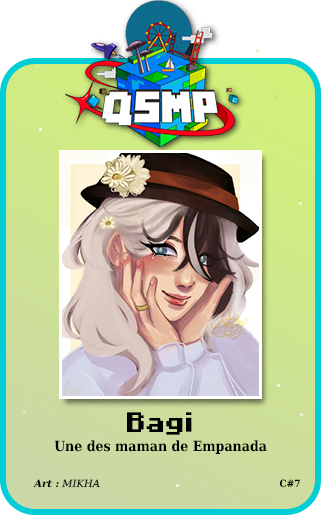
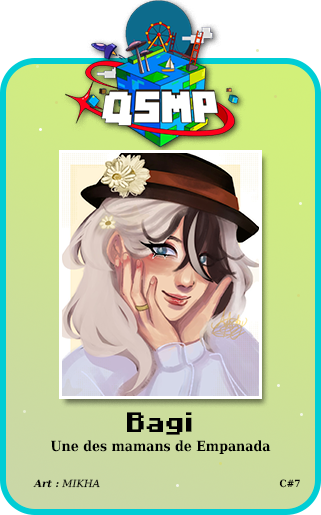
correction des fautes

Changed region(s): [[0.1558, 0.8388, 0.8411, 0.901]]

diff --git a/scripts/global_commandes/bouton.py b/scripts/global_commandes/bouton.py
@@ -24,7 +24,7 @@ class Voir_Commandes(discord.ui.View):
         interaction = select_interaction_argument(interaction, button)
         #on va chercher le nombre de fragment de l'utilisateur pour lui montrer avant son opening
         fragments = get_fragments_by_user(interaction.user.id)
-        await interaction.response.send_message(f"Coût **5** fragments. Vous avez **{fragments}** fragrment{pluriel(fragments)}\nDémarrer l'opening ?", view=Start_opening(), ephemeral=True)
+        await interaction.response.send_message(f"Coût **5** fragments. Vous avez **{fragments}** fragment{pluriel(fragments)}\nDémarrer l'opening ?", view=Start_opening(), ephemeral=True)
 
     @discord.ui.button(label="Mes cartes", row=2, style=discord.ButtonStyle.primary)
     async def mes_cartes_button_callback(self, button, interaction):
